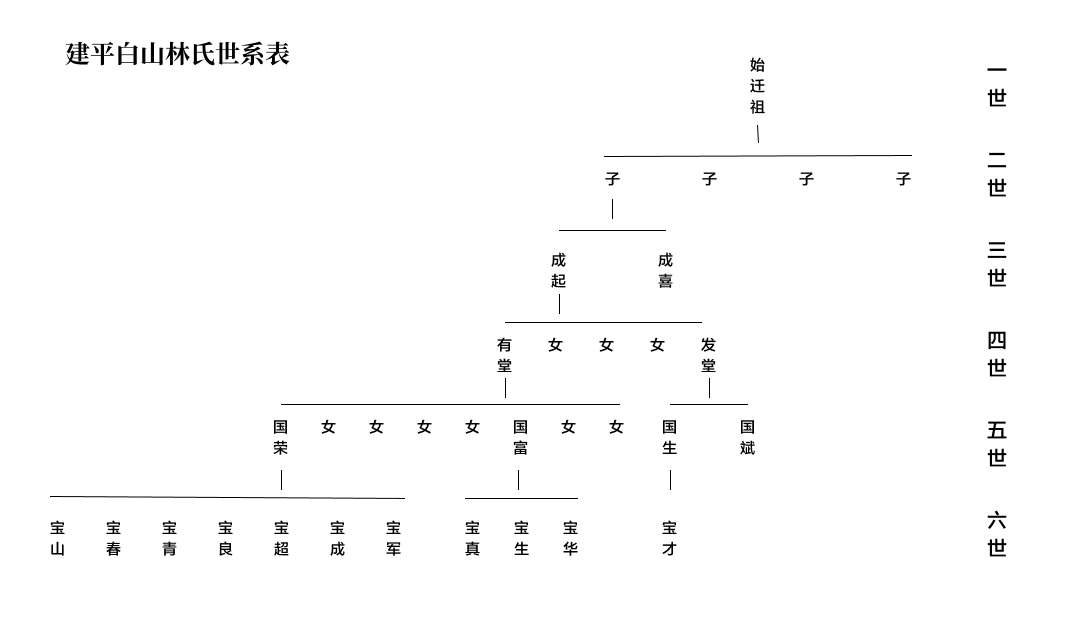
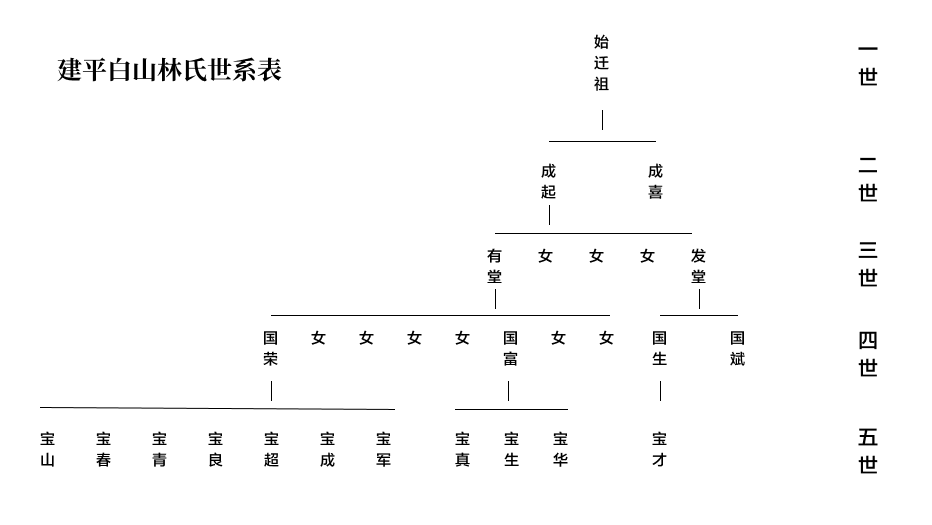
update linjia again

diff --git a/content/posts/lin.md b/content/posts/lin.md
@@ -1,5 +1,5 @@
 ---
-title: "林氏族谱"
+title: "林氏家系"
 isCJKLanguage: true
 ---
 
@@ -21,23 +21,17 @@ h3 {
 
 <img src="../img/childhood/lin-baishan.png" width="100%">
 
-### 一世
+### 始迁祖
 
-<!-- <img src="../img/childhood/2024-lin.png" width="600"> -->
-
-**名字不详**（约1818年出生）⼭东省登州府海阳县人，约1837年（道光十七年），逃荒至辽宁省建平县白山乡西三家，育子四人，始迁祖另一个兄弟也同来关东，后来又返回山东。
+**名字不详**（约1858年出生）⼭东省登州府海阳县人，约1876年，逃荒至辽宁省建平县白山乡西三家，始迁祖另一个兄弟也同来关东，后来又返回山东。
 
 ### 二世
 
-**名字不详**（约1848年左右出生）有子一人，女一人。
+**成起** （约1878年出生）始迁祖长子，妻子李氏，有子二人，女三人。约1918年因嗜赌成性被逐出家门，逝世于阿鲁科尔沁旗。成起祖父共有孙辈九人，成起排行老七，成起名字不详，在2018年立的墓碑上写的林成起，是成起之孙国富临时起的名字。
+
+**成喜** 始迁祖长女
 
 ### 三世
-
-**成起** （约1874年出生）二世长子，妻子李氏，有子二人，女三人。约1918年因嗜赌成性被逐出家门，逝世于阿鲁科尔沁旗。三世共有九人，成起排行老七，成起名字不详，在2018年立的墓碑上写的林成起，是成起之孙国富临时起的名字。
-
-**成喜** 二世长女
-
-### 四世
 
 **有堂** （1898年4月 - 1974年1⽉31日）成起长子，妻子张氏，有子二人，女六人。约1918年，成起将有堂的三个妹妹（约十几岁）以置换几袋大米的条件，将其送至他人家中作童养媳，有堂立志要勤勉置家，劳苦一生的开始，生于清朝末年（约15岁时清朝灭亡），壮年处于民国时期，50岁左右中华人民共和国成立，一生跨过第一次世界大战（16岁到20岁），大萧条（30岁出头），第二次世界大战（34岁到47岁期间，生活在被日本占领时期），以及建国初期的几次运动。
 
@@ -52,7 +46,7 @@ h3 {
 
 **国荣**（1934年 - 1986年）发堂长子，1974年40岁时，迫于生计，从[辽宁省建平县白山乡洼子沟村](https://www.amap.com/regeo?lng=119.465461&lat=41.699193&name=%E6%9C%9D%E9%98%B3%E5%B8%82%E5%BB%BA%E5%B9%B3%E5%8E%BF&adcode=211300)迁至内蒙古扎鲁特旗鲁北镇，后1976年中秋节后几日，迁至[黑龙江省绥棱县克音河乡津河七队（新立屯）](https://www.amap.com/regeo?lng=127.156244&lat=47.332062&name=%E7%BB%A5%E5%8C%96%E5%B8%82%E7%BB%A5%E6%A3%B1%E5%8E%BF&adcode=231200)。妻子王玉英（1932年正月十八 - 2009年1月1日因肺癌去世），王玉英出生于地主之家，家庭富裕，王玉英大舅家在1944年被土匪抢劫，父亲王金、母亲、兄长王玉生因此事生疾而相继去世。国荣成长于日占时期（十岁之前），建国左右1950年（约17岁）结婚，壮年处于建国初期至文化大革命时期，三年大饥荒时约25岁，国荣50出头就因为肺部疾病，经济拮据没有去医治而去世，终生为生计颠簸奋斗，王玉英晚年时期处于改革开放时期，贫苦的一生在晚年得到了一些物质上的享受。
 
-**国富** 发堂次子，1943年二月初八出生，妻子宗桂芝1947年正月二十七出生，二人1963年结婚，1975年迁至[绥棱县靠山乡胜利屯（孙甲振）](https://www.amap.com/regeo?lng=127.080078&lat=47.234937&name=%E7%BB%A5%E5%8C%96%E5%B8%82%E7%BB%A5%E6%A3%B1%E5%8E%BF&adcode=231200)。
+**国富** （1943年二月初八出生）发堂次子，妻子宗桂芝1947年正月二十七出生，二人1963年结婚，1975年迁至[绥棱县靠山乡胜利屯（孙甲振）](https://www.amap.com/regeo?lng=127.080078&lat=47.234937&name=%E7%BB%A5%E5%8C%96%E5%B8%82%E7%BB%A5%E6%A3%B1%E5%8E%BF&adcode=231200)。
 
 国字辈还有姐妹六人，长女和四女同来绥棱县，居靠山胜利屯。
 
@@ -80,7 +74,7 @@ h3 {
 
 ### 三世
 
-若按照年龄和代际推算，大约是林氏134世，也就是比干的134世孙。
+若按代际推算，大约是林氏134世，也就是比干的134世孙。
 
 **迎春**（1976年出生）宝山子，居建平白山
 
@@ -114,17 +108,17 @@ h3 {
 
 **英杰**（1995年出生）宝军女
 
-**英泽**（2001年出生），宝军子
+**英泽**（2001年出生）宝军子
 
-**莹莹**（1987年出生），宝真子
+**莹莹**（1987年出生）宝真子
 
-**英艳**（1990年出生），宝生女
+**英艳**（1990年出生）宝生女
 
-**英新**（1999年出生），宝生子
+**英新**（1999年出生）宝生子
 
-**英丽**（1993年出生），宝华女
+**英丽**（1993年出生）宝华女
 
-**英冲**（2002年出生），宝华子
+**英冲**（2002年出生）宝华子
 
 
 <!-- ## 不可考世代，仅供娱乐

diff --git a/content/posts/keyin.md b/content/posts/keyin.md
@@ -8,7 +8,7 @@ isCJKLanguage: true
 
 ## 1989年以前
 
-#### 1790年 - 1983年 [林家历史](/lin)
+#### 1837年 - 1983年 [林家历史](/lin)
 
 #### 1983年 - 1988年 [老爸老妈的故事](/bama)
 
@@ -38,7 +38,7 @@ isCJKLanguage: true
 
 1992年寒假开始，从大姨家回来，在草房居住，对草房的印象比较多，草房是一个拉门，王天夫陪我看[《幼儿画报》](https://book.kongfz.com/234114/4347346021/)，至今仍能记得《幼儿画报》上的很多故事。邻居是李旭楠爷爷（约1938年出生，现居齐齐哈尔市）家，经常去李爷家里玩，李爷这个时候教我玩象棋，也对他家的池塘有印象。
 
-<img src="../img/childhood/2007-aunts.jpg" width="600">
+<!-- <img src="../img/childhood/2007-aunts.jpg" width="600">
 
 大舅 张洪山（1948年）大姨 张洪芬（1953年）三姨 张洪华（1962年）二姨 张洪兰（1958年）老妈
 
@@ -46,7 +46,7 @@ isCJKLanguage: true
 
 <img src="../img/childhood/2007-uncles.jpg" width="600">
 
-老爸，二姨夫 张福祥，大姨夫 孙江（1954年 - 2021年4月），三姨夫 杨靖忠
+老爸，二姨夫 张福祥，大姨夫 孙江（1954年 - 2021年4月），三姨夫 杨靖忠 -->
 
 ## 1992年，三周岁
 
@@ -136,6 +136,8 @@ isCJKLanguage: true
 ## 1995年，六周岁
 
 1995年春节，去奶家（63岁）过年，路上和我爸抱怨《三国演义》可真长（1995年2月20日最后一集），当年春晚的《牛大叔“提干”》《今儿个高兴》《如此包装》印象深刻。
+
+<img src="../img/childhood/1995-burn.png" width="600">
 
 1995年上半年，老叔的房子因为电饭锅原因失火，当时正在幼儿园上课，被父母接走去津河。
 

diff --git a/content/poems/others.md b/content/poems/others.md
@@ -1,0 +1,79 @@
+## 贺中国男子足球队入围世界杯决赛圈（2001年10月）
+
+四十四载春秋梦
+
+七次出征未凯归
+
+今朝圣报三奇乐
+
+遭苦几经龙子飞
+
+## 浪淘沙 · 秋（2002年）
+
+孤燕伴风离
+
+北地山凄
+
+万花寻色与秋齐
+
+千里庄田丰收色
+
+又是一席
+
+·
+
+圆月更为离奇
+
+甚为满兮
+
+更使月下儿郎迷
+
+今纵有千种风情
+
+与月对激
+
+## 卜算子 · 咏梅（2003年12月3日）
+
+正念数梅争
+
+秋后白花剩
+
+已是风刀割面横
+
+为何梅花胜
+
+·
+
+剥坠不折腰
+
+万难情难倒
+
+但恨风吹如何恼
+
+梅花却鸣少
+
+## 如梦令（2004年春）
+
+窗外悬冰千丈
+
+几处悲歌高唱
+
+风雪鬓飞来
+
+荡起心潮如浪
+
+如浪
+
+如浪
+
+能耐几年惆怅
+
+## 赠冀男兄（2004年夏）
+
+水打浮萍巧相逢
+
+随风稍逊各西东
+
+劝君莫言花谢早
+
+你我互映到永恒

diff --git a/content/poems/chuxi.md b/content/poems/chuxi.md
@@ -10,3 +10,40 @@ date: 2004-01-21
 念姐如今愁一句，滴滴点点无穷趣。
 
 正是春意含情时，更别有系人心处。
+
+----
+
+<img src='../chuxi.png' width='400'>
+
+（一）
+
+春节晚会歌一曲，使得泪在眼中行
+
+一忆当年风流事，历史寒冬当已凝
+
+（二）
+
+月览春景不似人，思索万千冷深沉
+
+只是低头看一看，人间哪个更有神
+
+（三）
+
+小楼之上春已暮，远望玉关芳草路
+
+细径一条通远方，魂梦追随无觅处
+
+（四）
+
+二十前痴五十衰，身边英雄一排排
+
+为求人间真正道，忍把浮名变首白
+
+（五）
+
+人间正道是沧桑，眼前朦胧尽为雾
+
+正是春意含情时，更别有系人心处
+
+
+

diff --git a/content/poems/_index.md b/content/poems/_index.md
@@ -8,6 +8,7 @@ isCJKLanguage: true
 - 2003: [《卜算子》](./busuanzi)
 - 2004: [《除夕夜》](./chuxi)
 - 2004: [《无题》](./untitled04)
+- [其他诗作](./others)
 
 #### 高中时代
 
@@ -27,3 +28,4 @@ isCJKLanguage: true
 - 2008: [《醉梦呓》](./zuimeng)
 - 2009: [《八韵诗》](./bayun)
 - 2010: [《双心令》](./heart)
+
